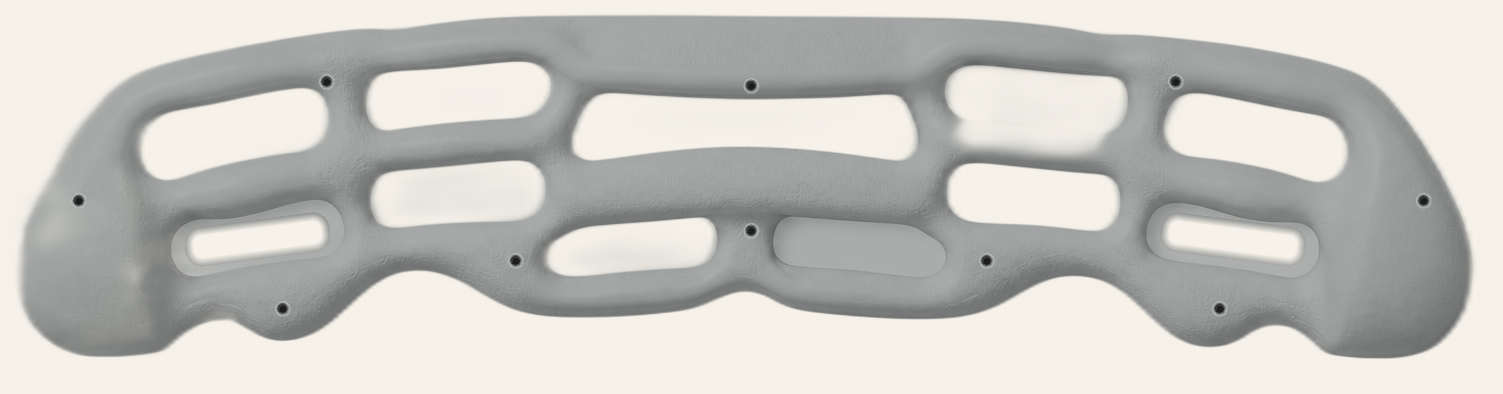
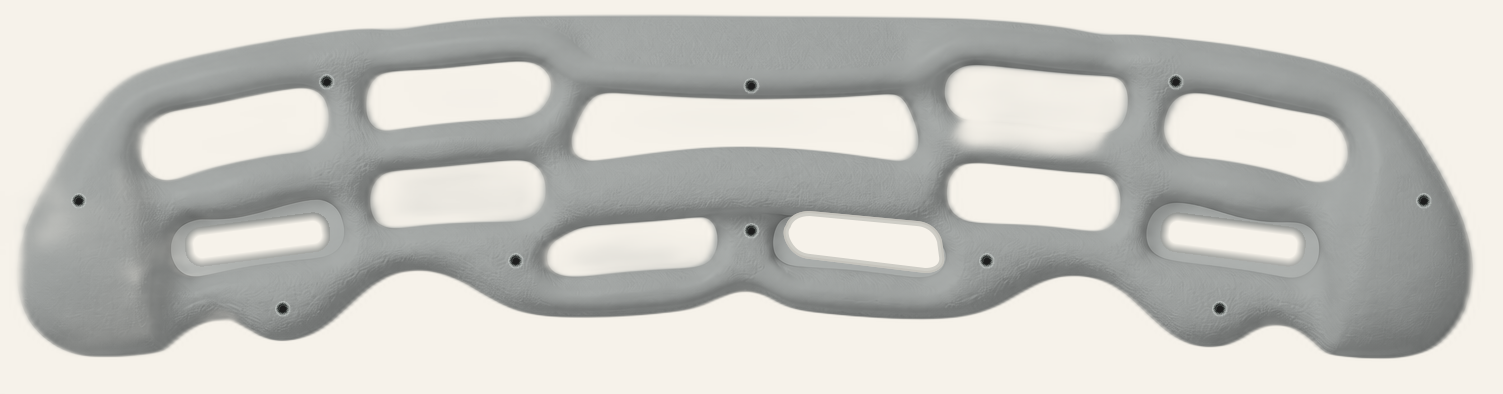
Reopen final Escape Beta 22 through-hole

Changed region(s): [[0.5203, 0.5178, 0.6427, 0.7005]]

diff --git a/docs/source-audits/2026-08-30-hangboard-presentation-remediation.md b/docs/source-audits/2026-08-30-hangboard-presentation-remediation.md
@@ -698,9 +698,12 @@ Fresh evidence:
 The package declares exactly one presentation, `primary`, and the repaired
 asset remains an independently head-on 1503 x 394 view. Its silhouette,
 aspect, shadows, and alpha-derived edge coverage are unchanged. Review of the
-first accepted gray candidate found that two symmetric lower-outer
-through-openings had incorrectly remained opaque gray; only nine of the
-source-backed 11 openings exposed the shared background. Ten source-backed
+first accepted gray candidate found that three lower through-openings had
+incorrectly remained opaque gray: the symmetric lower-outer pair and the
+lower center-right opening. Only eight of the source-backed 11 openings
+exposed the shared background. The first correction reopened the lower-outer
+pair, producing a 10-opening intermediate that still left the lower
+center-right rounded region opaque. Ten source-backed
 recessed mounting bores were drawn
 at manually reviewed top-origin pixel centers: upper `(327,82)`,
 `(751.5,86)`, `(1176,82)`; outer-side `(79,201)`, `(1424,201)`; and
@@ -720,16 +723,18 @@ does not establish it clearly enough to justify inventing pixels.
 
[1 lines of base64/hex data omitted]
 was rejected as too pale to read as published gray resin. Candidate 2 was
-accepted for color and finish, then corrected for the two-opening omission.
-The asset changed from
+accepted for color and finish, then corrected in two bounded passes for the
+three-opening omission. The asset changed from
[1 lines of base64/hex data omitted]
 through intermediate
[2 lines of base64/hex data omitted]
-all three are 1503 x 394 PNGs. `board.json` remains byte-identical at
+and first-correction
[2 lines of base64/hex data omitted]
+all four are 1503 x 394 PNGs. `board.json` remains byte-identical at
[1 lines of base64/hex data omitted]
 
-The correction directly authors the two rounded-pill interiors within
+The first correction directly authored the two rounded-pill interiors within
 top-origin review bounds approximately `x=171...345, y=203...276` and
 `x=1146...1320, y=203...276`. Their centers expose opaque `#F6F2EA`, with a
 narrow manually shaded inner edge matching the other through-openings; the
@@ -739,6 +744,19 @@ the two declared review boxes, zero changes elsewhere, and 5,550 exact
 background pixels across the two openings. This was a direct symmetric raster
 drawing: no detection, segmentation, generated mask, vectorization, crop,
 resize, registration, warp, or image generation was used.
+
+The final rereview correction directly authored the remaining center-right
+rounded-pill opening inside the single declared top-origin review box
+`x=774...947, y=204...276`, using the neighboring center-left opening as the
+manual symmetry reference. Its center exposes opaque `#F6F2EA`; two restrained
+interior edge strokes preserve the recessed shading while leaving the molded
+gray perimeter intact. Exact decoded-pixel comparison against the
+first-correction image found 7,632 changed pixels bounded by
+`x=783...944, y=211...272`, with zero changes outside the declared box. The
+result was inspected at original detail and contains all 11 background-visible
+through-openings plus all 10 mounting bores. This was direct deliberate path
+drawing, with no detection, segmentation, generated mask, vectorization,
+crop, resize, registration, warp, or image generation.
 
 Workbench rendered the single presentation with all 22 canonical geometry
 pieces and hold-ID labels aligned to their physical openings; the
